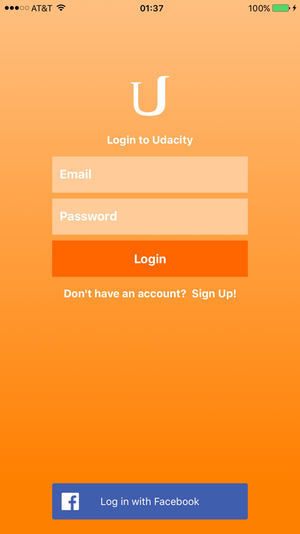
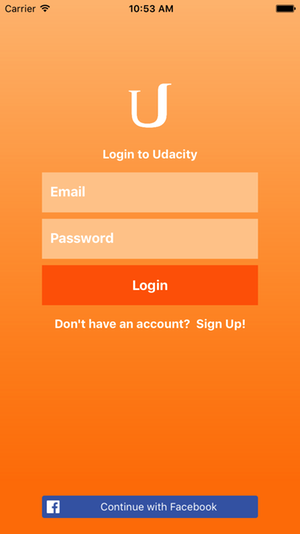
docs: Update README

diff --git a/README.md b/README.md
@@ -1,6 +1,8 @@
 # ![][AppIcon]&nbsp;&nbsp;&nbsp;&nbsp;&nbsp;OnTheMap
 
-OnTheMap allows a Udacity student to share his location, and a URL of interest, with other students.  The locations specified in the 100 most-recent student postings are presented as pins on a map or as items in a table.  The student postings database is hosted on the Parse platform.  The app requires login via Udacity or Facebook.
+OnTheMap allows a Udacity student to share his location, and a URL of interest, with other students.  The locations specified in the 100 most-recent student postings are presented as pins on a map or as items in a table.  The student postings database is hosted on a Udacity server using a local copy of Parse.
+
+---
 
 ## Project
 
@@ -12,15 +14,14 @@ OnTheMap is Portfolio Project #3 of the Udacity iOS Developer Nanodegree Program
 * [Udacity Git Commit Message Style Guide][CommitMsgStyleGuide]
 * [Udacity Project Review][ProjectReview]<br/><br/>
 
-| [Change Log][ChangeLog] | iOS 10 - IN WORK       | Final iOS 9 Build   | Project Submission - ***Exceeds Expectations*** |
+| [Change Log][ChangeLog] | Current iOS 10 Build   | Final iOS 9 Build   | Project Submission - ***Exceeds Expectations*** |
 | :----------             | :-----------------     | :-------------      | :-------------                                  |
-| GitHub Tag              | will be v2.0           | v1.3                | v1.1                                            |
-| App Version:            | will be 2.0            | 1.3                 | 1.1                                             |
+| GitHub Tag              | v2.0                   | v1.3                | v1.1                                            |
+| App Version:            | 2.0                    | 1.3                 | 1.1                                             |
 | Environment:            | Xcode 8.2.1 / iOS 10.2 | Xcode 7.3 / iOS 9.3 | Xcode 7.2.1 / iOS 9.2                           |
 | Devices:                | iPhone Only            | iPhone Only         | iPhone Only                                     |
 | Orientations:           | Portrait Only          | Portrait Only       | Portrait Only                                   |
 
-**IN WORK** - project is not done yet, but is available for review by pulling latest from the *iOS10Update* branch.  Once the project is complete, it will be merged into the master branch and tagged.
 
 ## Design  
 
@@ -32,7 +33,7 @@ The user must have a Udacity account to be able to login with this app.  If the 
 
 Enter email address and password, and tap the **Login** button in order to login with Udacity authentication.
 
-Tap on the **Log in with Facebook** button in order to login with Facebook authentication.  Email address and password fields are ignored.
+Tap on the **Continue with Facebook** button in order to login with Facebook authentication.  Email address and password fields are ignored.
 
 ### Student Location Tabbed View
 
@@ -79,21 +80,21 @@ Tap the **Cancel** button in the upper right-hand corner at any time to interrup
 
 ### Web APIs
 
-[Udacity API][UAPI] - login/logout with Udacity email/password or Facebook Authentication Token; retrieve Udacity user profile data.
-
-[Parse API][PAPI] - modify data in, and retrieve data from, the student location database hosted on the Facebook Parse platform.  [Website][PWebsite] and [Terms of Service][PTOS]
+* [Udacity API][UAPI] - login/logout with Udacity email/password or Facebook Authentication Token; retrieve Udacity user profile data.
+* [Parse API][PAPI] - access student location database hosted on Udacity server using a local copy of Parse.
 
 ### 3rd-Party
 
-* `FBSDKCoreKit` & `FBSDKLoginKit` from Facebook SDK for iOS (v4.9.1).
-  - [REPO][FBRepo]
-  - [LICENSE][FBLicense]
-  - [README][FBREADME]
+* Facebook SDK for **iOS 9** (v4.19.0).&nbsp;&nbsp;[Repo][FBRepo], [License][FBLicense] & [README][FBREADME]
+  - iOS 10 version not available.
+  - `Bolts.framework`
+  - `FBSDKCoreKit.framework`
+  - `FBSDKLoginKit.framework`
 * *GitHub Swift Style Guide* lives in this [repo][StyleGuideRepo].
 * `Swift.gitignore`, the template used to create the local `.gitignore` file, lives in this [repo][GitIgnoreRepo].
 
 ---
-**Copyright © 2016 Gregory White. All rights reserved.**
+**Copyright © 2016-2017 Gregory White. All rights reserved.**
 
 
 

diff --git a/Paperwork/READMEFiles/PostStudentLocationView.md b/Paperwork/READMEFiles/PostStudentLocationView.md
@@ -1,12 +1,18 @@
-# Post Student Location View
+# ![][AppIcon]&nbsp;&nbsp;&nbsp;&nbsp;&nbsp;Post Student Location View
+---
+</br>
 
 | Enter Location | Enter Link to Share |
 | :------------: | :-------------:     |
 | ![][EYLH]      | ![][ELTSH]          |
 
+</br>
+
+---
+**Copyright © 2016-2017 Gregory White. All rights reserved.**
 
 
 
-
-[ELTSH]:  ../images/EnterLinkToShareHere.png 
-[EYLH]:   ../images/EnterYourLocationHere.png
+[AppIcon]:  ../images/OnTheMap_80.png
+[ELTSH]:    ../images/EnterLinkToShareHere.png 
+[EYLH]:     ../images/EnterYourLocationHere.png

diff --git a/Paperwork/READMEFiles/StudentLocationsTabbedView.md b/Paperwork/READMEFiles/StudentLocationsTabbedView.md
@@ -1,12 +1,18 @@
-# Student Locations Tabbed View
+# ![][AppIcon]&nbsp;&nbsp;&nbsp;&nbsp;&nbsp;Student Locations Tabbed View
+--- 
+</br>
 
 | Map Tab   | List Tab  |
 | :-----:   | :------:  |
 | ![][SLMT] | ![][SLLT] |
 
+</br>
+
+---
+**Copyright © 2016-2017 Gregory White. All rights reserved.**
 
 
 
-
-[SLLT]:  ../images/StudentLocationsListTab.png
-[SLMT]:  ../images/StudentLocationsMapTab.png
+[AppIcon]:  ../images/OnTheMap_80.png
+[SLLT]:     ../images/StudentLocationsListTab.png
+[SLMT]:     ../images/StudentLocationsMapTab.png

diff --git a/Paperwork/READMEFiles/UdacitySignUpWebpage.md b/Paperwork/READMEFiles/UdacitySignUpWebpage.md
@@ -1,9 +1,12 @@
-# Udacity Sign Up Webpage
+# ![][AppIcon]&nbsp;&nbsp;&nbsp;&nbsp;&nbsp;Udacity Sign Up Webpage
+---
 
 ![][USUW]
 
+---
+**Copyright © 2016-2017 Gregory White. All rights reserved.**
 
 
 
-
-[USUW]:  ../images/UdacitySignUpWebpage.png
+[AppIcon]:  ../images/OnTheMap_80.png
+[USUW]:     ../images/UdacitySignUpWebpage.png

diff --git a/Paperwork/READMEFiles/ChangeLog.md b/Paperwork/READMEFiles/ChangeLog.md
@@ -1,4 +1,5 @@
-# Change Log
+# ![][AppIcon]&nbsp;&nbsp;&nbsp;&nbsp;&nbsp;Change Log
+---
 
 ### Version 1.3
 * Update to Xcode 7.3 / iOS 9.3
@@ -11,3 +12,10 @@
 * Add README
 
 ### Version 1.1 - Submission
+
+---
+**Copyright © 2016-2017 Gregory White. All rights reserved.**
+
+
+
+[AppIcon]:  ../images/OnTheMap_80.png

diff --git a/Paperwork/READMEFiles/UdacityLoginView.md b/Paperwork/READMEFiles/UdacityLoginView.md
@@ -1,9 +1,12 @@
-# Udacity Login View
+# ![][AppIcon]&nbsp;&nbsp;&nbsp;&nbsp;&nbsp;Udacity Login View
+---
 
 ![][ULV]
 
+---
+**Copyright © 2016-2017 Gregory White. All rights reserved.**
 
 
 
-
-[ULV]:  ../images/UdacityLoginView.png
+[AppIcon]:  ../images/OnTheMap_80.png
+[ULV]:      ../images/UdacityLoginView.png
